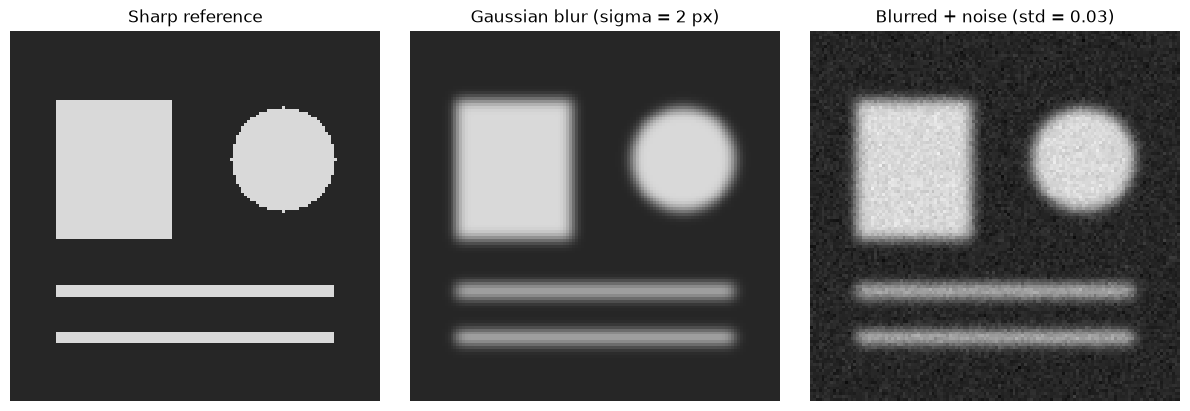
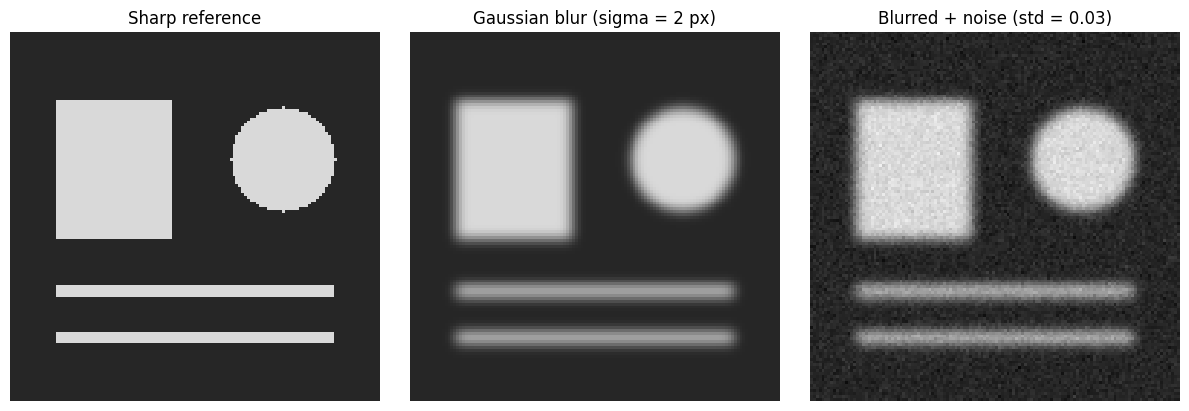
Add files via upload

diff --git a/image_deblurring.md b/image_deblurring.md
@@ -6,6 +6,8 @@ This report studies image deblurring as an ill-conditioned inverse problem. It f
 
 To reproduce the results, select the project's Python environment with NumPy, SciPy, Matplotlib, and ipykernel installed, then use **Restart Kernel and Run All**. Run every cell in order; later experiments reuse the earlier operator, observation, and baseline histories. No external image or dataset is needed. Fixed seeds make the synthetic data repeatable; library versions and floating-point arithmetic can cause tiny numerical differences.
 
+Files: `image_deblurring.ipynb` is the runnable source; `image_deblurring.md` is its rendered export for reading on GitHub. Both contain the same report and results.
+
 Assignment: [Project 2 report requirements and diagnostic protocol](https://designinformaticslab.github.io/DesignOptimization2025/project2.html#report-requirements).
 
 
@@ -55,9 +57,12 @@ from scipy.ndimage import gaussian_filter
 
 np.random.seed(0)
 
+import scipy, sys
+print(f"Python {sys.version.split()[0]}; NumPy {np.__version__}; SciPy {scipy.__version__}; Matplotlib {plt.matplotlib.__version__}")
 print("Setup successful!")
 ```
 
+    Python 3.12.3; NumPy 2.4.4; SciPy 1.17.1; Matplotlib 3.10.8
     Setup successful!
 
 
@@ -146,7 +151,7 @@ All three panels use the same grayscale limits (0 to 1), so the differences come
 
 For periodic convolution, Fourier patterns are eigenvectors of the blur operator. If $\widehat h_\sigma(\omega)$ is the discrete response of the actual sampled Gaussian kernel, the corresponding Hessian curvature is $|\widehat h_\sigma(\omega)|^2$. Fine oscillations can almost cancel under averaging, producing tiny curvatures while the constant pattern has curvature 1. Equivalently, the blur's small singular values are squared in $H=A_\sigma^T A_\sigma$. This creates both slow correction of weak patterns and extreme sensitivity to noisy data.
 
-The structural knob in D2 is $\sigma$ in pixels, with the grid and intensity units held fixed. For example, the current sweep gives spectral condition estimates of about 9.20 at 0.5 pixels, $2.33\times10^7$ at 1 pixel, and $4.02\times10^{17}$ at 1.5 pixels. This is substantial growth under stronger smoothing. The wider sweep has local dips because the finite truncated kernel's weakest response among discrete frequencies can change; we do not assume that every successive width must increase the estimate.
+The structural knob in D2 is $\sigma$ in pixels, with the grid and intensity units held fixed. For example, the current sweep gives spectral condition estimates of about 9.20 at 0.5 pixels, $2.33\times10^7$ at 1 pixel, and $4.02\times10^{17}$ at 1.5 pixels. The estimate rises monotonically from 1 with no blur to about $4\times10^{17}$ at 1.5 pixels. Between 1.5 and 1.75 pixels, truncating the sampled kernel at four standard deviations makes its frequency response take negative values (checked in D2), so the weakest response is set by truncation rather than by Gaussian smoothing. Estimates there are non-monotone (for example $2.3\times10^{22}$ at 2 px versus $1.5\times10^{23}$ at 1.75 px) and, above roughly $10^{16}$, beyond what a direct float64 Hessian calculation could resolve. The growth claim therefore rests on the monotone 0 to 1.5 pixel range, and the 2-pixel operator used in D1, D3, and D4 is treated as severely ill-conditioned rather than as a precise value.
 
 The second intrinsic test is survival under diagonal rescaling. Every periodic kernel column is a circular shift with the same norm, so $D=cI$ and symmetric Jacobi scaling changes every curvature by the same factor. Its exact condition number is unchanged. D2 verifies this constant diagonal and plots both numerical estimates. Together, the growth range and scaling invariance establish the intrinsic mechanism for this model. Noise changes reconstruction difficulty, but does not change this fixed linear problem's Hessian.
 
@@ -194,7 +199,7 @@ hessian_eigenvalues, hessian_condition = hessian_spectrum_from_factor(B)
 
 ```
 
-    Operator matches Experiment 1; random-image maximum difference: 1.94e-16
+    Operator matches Experiment 1; random-image maximum difference: 2.22e-16
 
 
 ### D2: Blur width and Jacobi scaling for periodic blur
@@ -259,23 +264,58 @@ print("Exact-arithmetic Jacobi condition number: unchanged. Plotted deviations a
     Condition numbers below are spectral estimates, not certified full-Hessian float64 measurements.
     sigma (px)      estimate H    estimate H_J   numerical diff %
           0.00       1.000e+00       1.000e+00          0.000e+00
-          0.50       9.199e+00       9.199e+00         -1.110e-13
-          0.75       4.150e+03       4.150e+03         -6.661e-14
-          1.00       2.334e+07       2.334e+07         -1.454e-12
-          1.25       1.595e+12       1.595e+12         -3.224e-11
-          1.50       4.023e+17       4.023e+17          1.512e-11
-          1.75       1.543e+23       1.543e+23          1.420e-09
-          2.00       2.272e+22       2.272e+22          6.014e-09
-          2.25       7.331e+24       7.331e+24          5.161e-10
-          2.50       1.812e+25       1.812e+25          1.987e-08
-          3.00       1.771e+21       1.771e+21         -1.069e-09
-          3.50       2.691e+23       2.691e+23          6.748e-10
-          4.00       1.807e+33       1.807e+33          1.356e-06
+          0.50       9.199e+00       9.199e+00          8.882e-14
+          0.75       4.150e+03       4.150e+03          0.000e+00
+          1.00       2.334e+07       2.334e+07          6.439e-13
+          1.25       1.595e+12       1.595e+12         -3.008e-11
+          1.50       4.023e+17       4.023e+17          3.196e-10
+          1.75       1.543e+23       1.543e+23          1.601e-08
+          2.00       2.272e+22       2.272e+22          3.301e-09
+          2.25       7.331e+24       7.331e+24         -4.581e-09
+          2.50       1.812e+25       1.812e+25          3.434e-08
+          3.00       1.771e+21       1.771e+21         -7.379e-10
+          3.50       2.691e+23       2.691e+23          2.049e-11
+          4.00       1.807e+33       1.807e+33          2.247e-06
     
     At the original sigma = 2 px:
     Raw spectral estimate: 2.272e+22; Jacobi spectral estimate: 2.272e+22
-    Maximum relative spread of the one-axis Hessian diagonal: 5.903e-16
+    Maximum relative spread of the one-axis Hessian diagonal: 7.871e-16
     Exact-arithmetic Jacobi condition number: unchanged. Plotted deviations are floating-point effects.
+
+
+
+```python
+# Why do the estimates stop rising smoothly? Check the sign of the truncated kernel's frequency response.
+min_real_response = np.array([
+    np.fft.fft(blur_axis_matrix(image_size, s)[:, 0]).real.min() for s in blur_widths
+])
+first_negative = np.flatnonzero(min_real_response < 0)[0]
+sign_change_sigma = blur_widths[first_negative]
+monotone_mask = np.arange(blur_widths.size) < first_negative
+assert np.all(np.diff(raw_conditions[monotone_mask]) > 0), "estimates should rise in the positive-response range"
+print(f"{'sigma (px)':>10} {'min Re(kernel response)':>25} {'cond estimate':>15}")
+for s, m, k in zip(blur_widths, min_real_response, raw_conditions):
+    print(f"{s:10.2f} {m:25.3e} {k:15.3e}" + ("   <- response < 0" if m < 0 else ""))
+print(f"\nMonotone growth verified for sigma from 0 to {blur_widths[first_negative - 1]:g} px; response first negative at sigma = {sign_change_sigma:g} px.")
+
+```
+
+    sigma (px)   min Re(kernel response)   cond estimate
+          0.00                 1.000e+00       1.000e+00
+          0.50                 5.742e-01       9.199e+00
+          0.75                 1.246e-01       4.150e+03
+          1.00                 1.439e-02       2.334e+07
+          1.25                 8.898e-04       1.595e+12
+          1.50                 3.971e-05       4.023e+17
+          1.75                -1.188e-05       1.543e+23   <- response < 0
+          2.00                -1.447e-05       2.272e+22   <- response < 0
+          2.25                -1.636e-05       7.331e+24   <- response < 0
+          2.50                -1.760e-05       1.812e+25   <- response < 0
+          3.00                -2.026e-05       1.771e+21   <- response < 0
+          3.50                -2.171e-05       2.691e+23   <- response < 0
+          4.00                -2.278e-05       1.807e+33   <- response < 0
+    
+    Monotone growth verified for sigma from 0 to 1.5 px; response first negative at sigma = 1.75 px.
 
 
 
@@ -287,6 +327,7 @@ axes[0].semilogy(blur_widths, jacobi_conditions, "s--", markerfacecolor="none", 
 axes[0].set_xlabel("Gaussian blur width sigma (pixels)")
 axes[0].set_ylabel("Spectral condition estimate (log scale)")
 axes[0].set_title("D2: Periodic blur and Jacobi scaling")
+axes[0].axvspan(sign_change_sigma, blur_widths.max(), color="tab:orange", alpha=0.10, label="truncated-kernel response changes sign")
 axes[0].grid(True, which="both", alpha=0.25)
 axes[0].legend()
 
@@ -307,13 +348,13 @@ plt.show()
 
 
     
-![png](image_deblurring_files/image_deblurring_13_0.png)
+![png](image_deblurring_files/image_deblurring_14_0.png)
     
 
 
 #### Reading D2: unchanged conditioning in exact arithmetic
 
-With no blur, the Hessian is the identity and the condition number is 1. Wider blur usually suppresses more fine detail and makes recovery harder. The spectral estimates need not rise monotonically: this finite, sampled Gaussian kernel is truncated at four standard deviations, and its weakest response among the discrete periodic frequencies can change sharply as the width changes. Extremely large estimates also require the floating-point caution described in D1.
+With no blur, the Hessian is the identity and the condition number is 1. Wider blur usually suppresses more fine detail and makes recovery harder. The estimates rise monotonically up to 1.5 pixels. Beyond that, the truncated kernel's frequency response changes sign (see the check above), so the weakest response reflects truncation error and the estimates dip and jump. The orange band in the left plot marks that region. Extremely large estimates also require the floating-point caution described in D1.
 
 The original and Jacobi spectral estimates overlap. At the current width of 2 pixels, both are about $2.27\times10^{22}$. For this periodic blur, **the exact condition numbers are identical at every width**, because Jacobi merely multiplies the whole Hessian by a scalar. It cannot reduce the ratio between the strongest and weakest curvatures.
 
@@ -386,7 +427,7 @@ plt.show()
 
 
     
-![png](image_deblurring_files/image_deblurring_17_1.png)
+![png](image_deblurring_files/image_deblurring_18_1.png)
     
 
 
@@ -532,7 +573,7 @@ plt.show()
 
 
     
-![png](image_deblurring_files/image_deblurring_22_0.png)
+![png](image_deblurring_files/image_deblurring_23_0.png)
     
 
 
@@ -545,6 +586,68 @@ This fits the conditioning picture in D1 and D2. Gradient descent can correct pa
 The left panel plots the objective divided by its initial value, **not an objective gap to a computed optimum**. The right panel plots the actual stopping criterion; its dashed line is the same $10^{-5}$ tolerance for both runs. Reaching 5,000 updates is an iteration-limit outcome, not convergence.
 
 A small relative gradient measures approximate stationarity. It does not certify accurate recovery of the sharp image, and the gradient values alone cannot rank conditioning across widths because blur also suppresses gradients in weak directions. These observations contain noise: continuing to minimize the unregularized objective can fit that noise rather than recover useful image detail. This experiment establishes the baseline for a later regularization comparison.
+
+
+
+```python
+# Exact GD update counts in the Fourier domain (valid because the periodic blur is circulant).
+# The relative gradient after k updates is sqrt( sum_i c_i^2 (1 - a(nu_i + w))^(2k) / sum_i c_i^2 ),
+# where nu_i are the Hessian eigenvalues and c_i^2 = nu_i |y_hat_i|^2 is the initial gradient energy in mode i.
+delta_image = np.zeros_like(sharp_image)
+delta_image[0, 0] = 1.0
+
+def exact_gd_update_count(sigma, weight=0.0, tolerance=gd_stopping_tolerance, upper=10**8):
+    transfer = np.fft.fft2(apply_gd_blur(delta_image, sigma))
+    nu = np.abs(transfer)**2
+    observation = apply_gd_blur(sharp_image, sigma) + noise
+    y_hat = np.fft.fft2(observation) / image_size            # orthonormal FFT
+    c_sq = nu * np.abs(y_hat)**2
+    step = 1.0 / (1.0 + weight)                               # 1/L for this objective (L = 1 + weight)
+    contraction = 1.0 - step * (nu + weight)
+    total = c_sq.sum()
+    rel = lambda k: np.sqrt(np.sum(c_sq * contraction**(2.0 * k)) / total)
+    assert rel(upper) <= tolerance, "increase the search bound"
+    lo, hi = 0, upper
+    while lo < hi:
+        mid = (lo + hi) // 2
+        if rel(mid) <= tolerance:
+            hi = mid
+        else:
+            lo = mid + 1
+    return lo, rel
+
+# Validate against the actual GD runs above: same stopping count where GD converged,
+# and the same relative gradient at the 5,000-update cap where it did not.
+for result in gd_results:
+    count, rel_fn = exact_gd_update_count(result["sigma"])
+    if result["converged"]:
+        assert count == result["iterations"], (count, result["iterations"])
+    else:
+        np.testing.assert_allclose(rel_fn(result["iterations"]), result["relative_gradient"][-1], rtol=1e-6)
+
+exact_widths = [0.5, 1.0, 1.5, blur_sigma]
+exact_counts = {}
+print(f"{'sigma (px)':>10} {'cond(H) estimate':>18} {'GD updates to 1e-5':>20} {'ratio to sigma=0.5':>20}")
+for sigma in exact_widths:
+    count, _ = exact_gd_update_count(sigma)
+    exact_counts[sigma] = count
+    _, kappa_sigma = hessian_spectrum_from_factor(blur_axis_matrix(image_size, sigma))
+    print(f"{sigma:10.2f} {kappa_sigma:18.3e} {count:20,d} {count / exact_counts[exact_widths[0]]:20,.0f}")
+
+```
+
+    sigma (px)   cond(H) estimate   GD updates to 1e-5   ratio to sigma=0.5
+          0.50          9.199e+00                   51                    1
+          1.00          2.334e+07              531,759               10,427
+          1.50          4.023e+17            1,004,304               19,692
+          2.00          2.272e+22              583,924               11,449
+
+
+#### D3 update counts to the fixed tolerance
+
+The 5,000-update cap hid how slow the wide-blur run really is. Because the periodic blur is circulant, gradient descent acts on each Fourier mode independently, so the exact number of updates to reach $10^{-5}$ can be computed without running millions of iterations. The cell above checks this against the runs already done: it reproduces the 51-update stop at 0.5 pixels exactly and the relative gradient at the 5,000-update cap for 2 pixels. At the original 2-pixel width, plain gradient descent needs about $5.8\times10^{5}$ updates, roughly 11,000 times the 51 needed at 0.5 pixels.
+
+The counts are not monotone in $\sigma$ (1.0 pixel needs about $5.3\times10^{5}$ and 1.5 pixels about $1.0\times10^{6}$). The count depends on the whole spectrum and on how much of the observation's gradient energy sits in weakly curved modes, which noise also affects, so it is not a function of $\kappa$ alone. What the table does show is that every width of 1 pixel or more needs $10^{5}$ to $10^{6}$ updates, against tens for 0.5 pixels. For a gradient-based stopping rule, this is a statement about update counts and not about reconstruction quality.
 
 
 ## 5. Proposed solution and demonstration
@@ -727,7 +830,7 @@ plt.show()
 
 
     
-![png](image_deblurring_files/image_deblurring_29_0.png)
+![png](image_deblurring_files/image_deblurring_32_0.png)
     
 
 
@@ -754,7 +857,7 @@ print("All panels use grayscale limits 0 to 1. Values outside that range saturat
 
 
     
-![png](image_deblurring_files/image_deblurring_30_0.png)
+![png](image_deblurring_files/image_deblurring_33_0.png)
     
 
 
@@ -778,6 +881,43 @@ All images share the same grayscale limits. Out-of-range intensities saturate vi
 Background: [Hansen's regularization-method notes](https://www2.compute.dtu.dk/~pcha/DIP/chap4.pdf) describe Tikhonov filtering and the stability-bias tradeoff, using a squared-parameter convention rather than this notebook's penalty coefficient.
 
 
+
+```python
+# Sensitivity of the remedy to lambda. lambda = 0.01 stays the fixed choice made in advance;
+# this table only shows how the tradeoff behaves, using the FFT minimizer and exact GD counts.
+lambda_grid = [1e-4, 1e-3, 1e-2, 1e-1]
+sens_rows = []
+for lam in lambda_grid:
+    filt = np.conj(d4_transfer) / (np.abs(d4_transfer)**2 + lam)
+    x_noisy = np.fft.ifft2(filt * np.fft.fft2(noisy_image)).real
+    x_clean = np.fft.ifft2(filt * np.fft.fft2(blurred_image)).real
+    rmse_l = np.sqrt(np.mean((x_noisy - sharp_image)**2))
+    bias_l = np.sqrt(np.mean((x_clean - sharp_image)**2))
+    kappa_l = (hessian_eigenvalues[0] + lam) / (hessian_eigenvalues[-1] + lam)
+    updates_l, _ = exact_gd_update_count(blur_sigma, weight=lam)
+    sens_rows.append((lam, kappa_l, updates_l, rmse_l, bias_l, 1 / (2 * np.sqrt(lam))))
+
+# The lambda = 0.01 row must reproduce the GD run above.
+row_001 = next(r for r in sens_rows if r[0] == d4_lambda)
+assert row_001[2] == d4_regularized["iterations"], (row_001[2], d4_regularized["iterations"])
+print(f"{'lambda':>8} {'cond(H+lambda I)':>17} {'GD updates':>11} {'image RMSE':>11} {'bias RMSE':>10} {'noise-gain bound':>17}")
+for lam, kap_l, upd_l, rmse_l, bias_l, gain_l in sens_rows:
+    print(f"{lam:8.0e} {kap_l:17.1f} {upd_l:11,d} {rmse_l:11.4f} {bias_l:10.4f} {gain_l:17.1f}")
+
+```
+
+      lambda  cond(H+lambda I)  GD updates  image RMSE  bias RMSE  noise-gain bound
+       1e-04           10001.0      17,199      0.4114     0.0574              50.0
+       1e-03            1001.0       2,663      0.1434     0.0606              15.8
+       1e-02             101.0         369      0.0811     0.0688               5.0
+       1e-01              11.0          52      0.0972     0.0961               1.6
+
+
+#### D4 sensitivity: how the remedy depends on $\lambda$
+
+The condition number of $H+\lambda I$ is close to $(1+\lambda)/\lambda$, so the update count falls by roughly a factor of 10 for each factor-of-10 increase in $\lambda$ (about $1.7\times10^{4}$, $2.7\times10^{3}$, 369, and 52 updates). The reconstruction error is not monotone. With $\lambda=10^{-4}$ the noise gain bound of 50 lets noise dominate (RMSE about 0.41); with $\lambda=0.1$ the bias term dominates (RMSE about 0.097, bias about 0.096). The fixed choice $\lambda=0.01$ falls between these two, with the lowest RMSE of the four values. It was chosen before this table was computed and is not claimed to be optimal; this is a single noise realization, and the RMSE column uses the known sharp image for evaluation only.
+
+
 ## 6. Assumptions and simplifications
 
 - **Known blur:** the point-spread function is a spatially uniform, symmetric, separable, normalized Gaussian. The blur width is known. We do not estimate an unknown kernel or model motion blur, spatially varying defocus, or blur-model error.
@@ -788,15 +928,15 @@ Background: [Hansen's regularization-method notes](https://www2.compute.dtu.dk/~
 - **Unconstrained intensities:** physical intensity bounds are omitted to isolate conditioning. Display limits 0 to 1 only control visualization. Negative values and overshoots remain in the optimization and RMSE calculations.
 - **Finite precision:** calculations use float64. The unregularized condition number is a structured spectral estimate, with the D1 precision caveat; $1/\epsilon$ is a caution scale for direct Hessian computations, not a universal limit on all condition estimates. Small Jacobi differences are numerical effects, not genuine changes in exact conditioning.
 - **Stopping and evaluation:** a relative gradient tolerance measures stationarity of each method's own objective, not reconstruction accuracy. An iteration-limit outcome is not convergence. The sharp image is available only for synthetic evaluation; a real reconstruction would not have ground-truth RMSE.
-- **Limited remedy study:** the identity penalty favors smaller intensities, including slight brightness shrinkage, and attenuates detail. One regularization parameter and one noise realization are tested. Derivative penalties, edge-preserving priors, parameter-selection methods, multiple trials, and real-image validation are outside this experiment.
+- **Limited remedy study:** the identity penalty favors smaller intensities, including slight brightness shrinkage, and attenuates detail. The main comparison uses one fixed $\lambda$, plus a four-value sensitivity sweep, and one noise realization. Derivative penalties, edge-preserving priors, parameter-selection methods, multiple trials, and real-image validation are outside this experiment.
 
 ### What the results support
 
-At the original 2-pixel width, ordinary GD reaches the 5,000-update limit with relative gradient about $1.05\times10^{-4}$. Tikhonov reaches $10^{-5}$ in 369 updates, changes the Hessian condition from a spectral estimate of about $2.27\times10^{22}$ to 101, and reduces image RMSE from about 0.3435 to 0.0810. These results support stabilization of this synthetic inverse problem, with a measurable noise-bias tradeoff; they do not establish general performance on real inspection images.
+At the original 2-pixel width, ordinary GD is still at relative gradient about $1.05\times10^{-4}$ after 5,000 updates; an exact Fourier-domain count shows it needs about $5.8\times10^{5}$ updates to reach $10^{-5}$, against 51 updates at 0.5 pixels. Tikhonov reaches $10^{-5}$ in 369 updates, about 1,600 times fewer, changes the Hessian condition from a spectral estimate of about $2.27\times10^{22}$ to 101, and reduces image RMSE from about 0.3435 to 0.0810. These results support stabilization of this synthetic inverse problem, with a measurable noise-bias tradeoff; they do not establish general performance on real inspection images.
 
 ### Reproducibility
 
-Restart the kernel and run all cells in their displayed order. The setup requires only the packages already listed in `requirements.txt`; all image data are generated in the notebook. The final analytic check below independently checks the spectrum, diagonal rescaling, and stopping counts on a tiny instance of the same model. Small last-digit differences can occur across library and BLAS versions without changing the main conclusions.
+Restart the kernel and run all cells in their displayed order. The setup requires Python 3.10 or newer and the packages in `requirements.txt` (NumPy, SciPy, Matplotlib, and Jupyter with ipykernel); the setup cell prints the exact versions used. All image data are generated in the notebook. The final analytic check below independently checks the spectrum, diagonal rescaling, and stopping counts on a tiny instance of the same model. Small last-digit differences can occur across library and BLAS versions without changing the main conclusions.
 
 
 ### Analytic check on a 2 x 2 periodic blur
